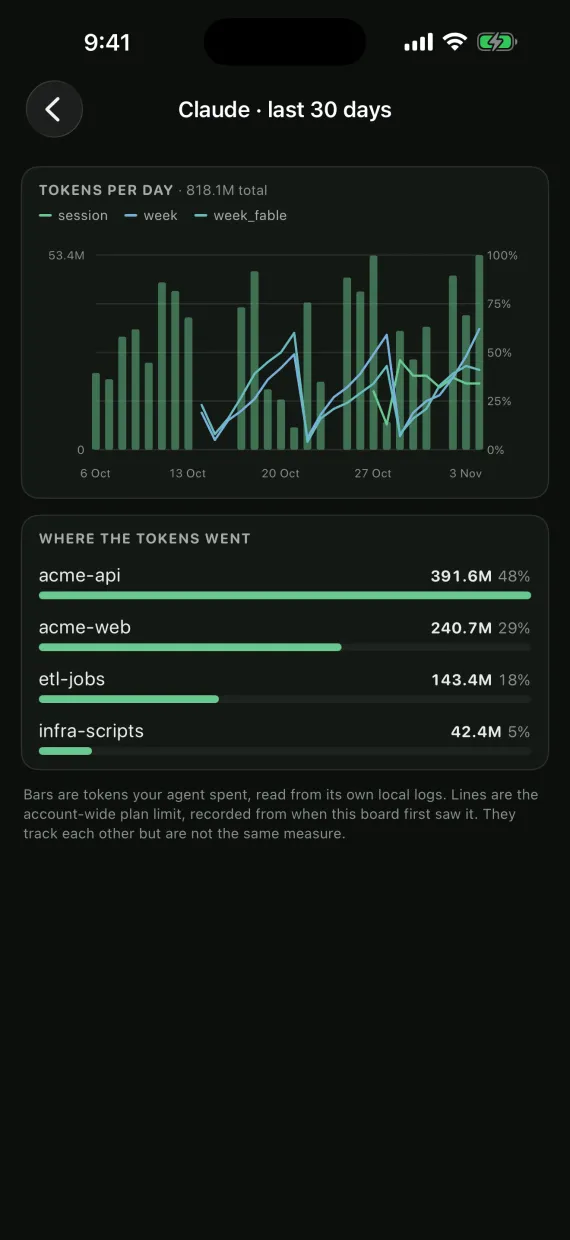
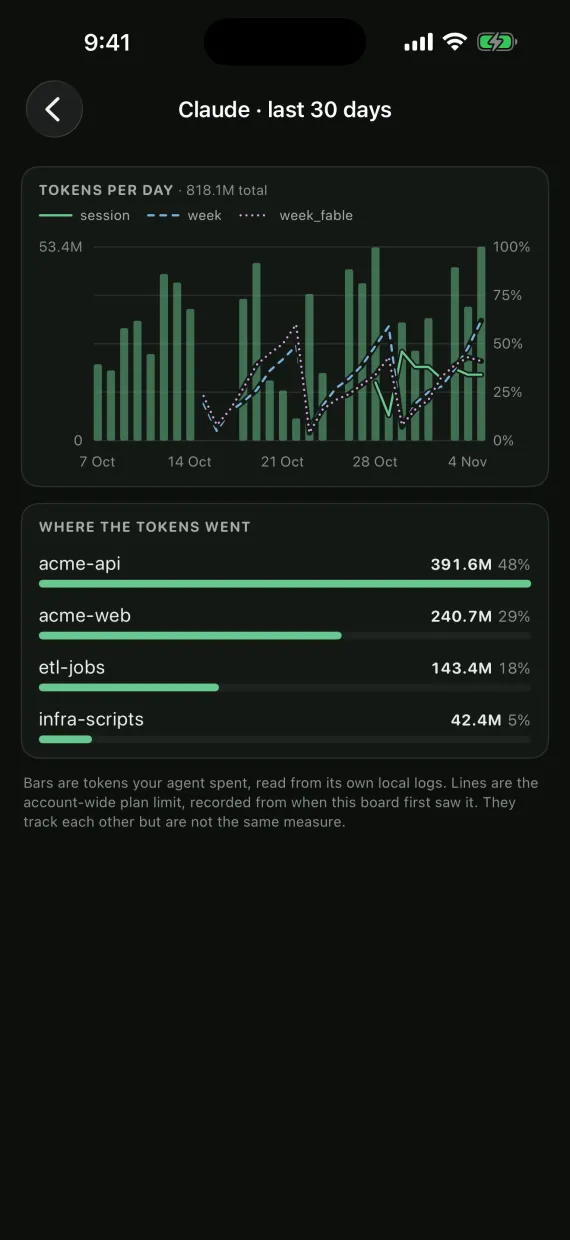
Restage the App Store screenshots and landing images on 1.6.5's final board
1.6.5 now also carries the iOS accessibility pass, so every staged image
showed an app that had since changed: the welcome screen's main button is a
darker green that white reads on, the board's DEMO badge left the toolbar's
glass, the history header draws the card's badge and each row the state's
mark, and the usage chart's limit lines differ by pattern as well as colour.

All sixteen store images are retaken from this tree in demo mode, with the
variables docs/appstore/README.md records for 1.6.5's set (frozen, titled;
the iPads on the busy scenario), the welcome images on a fresh install of
each device: 1284x2778, 1320x2868, 2064x2752 and 2752x2064, the slots'
sizes. Against the images they replace, only the welcome button's band, the
toolbar's band, the history rows and the usage chart differ (and the iPad
status bar's date). No system banner in any of them.

The landing page's three phone images are made again from the 6.9" set
(cwebp -q 80, 570x1240), and two alt texts follow them: the usage lines'
patterns, and the history's header and marks.

diff --git a/public/landing.html b/public/landing.html
@@ -623,14 +623,14 @@
     <figure class="phone">
       <div class="phone-frame">
         <img src="/img/usage.webp" width="570" height="1240" loading="lazy" decoding="async"
-             alt="The usage screen on iPhone: thirty days of tokens spent per day as green bars, with three plan-limit windows drawn over them as lines and named in a legend, and below it a ranked breakdown of spend per project with a bar and a percentage for each." />
+             alt="The usage screen on iPhone: thirty days of tokens spent per day as green bars, with three plan-limit windows drawn over them as lines, each in its own colour and pattern — solid, dashed, dotted — and named in a legend, and below it a ranked breakdown of spend per project with a bar and a percentage for each." />
       </div>
       <figcaption>Where the tokens went</figcaption>
     </figure>
     <figure class="phone">
       <div class="phone-frame">
         <img src="/img/history.webp" width="570" height="1240" loading="lazy" decoding="async"
-             alt="Session history on iPhone: a timeline of one agent's status changes, each row a coloured dot, the name of the state, the activity line and a timestamp." />
+             alt="Session history on iPhone: the session's directory and its current state at the top, then a timeline of its status changes, each row a coloured dot, the state's mark and name, the activity line and a timestamp." />
       </div>
       <figcaption>Session history</figcaption>
     </figure>
